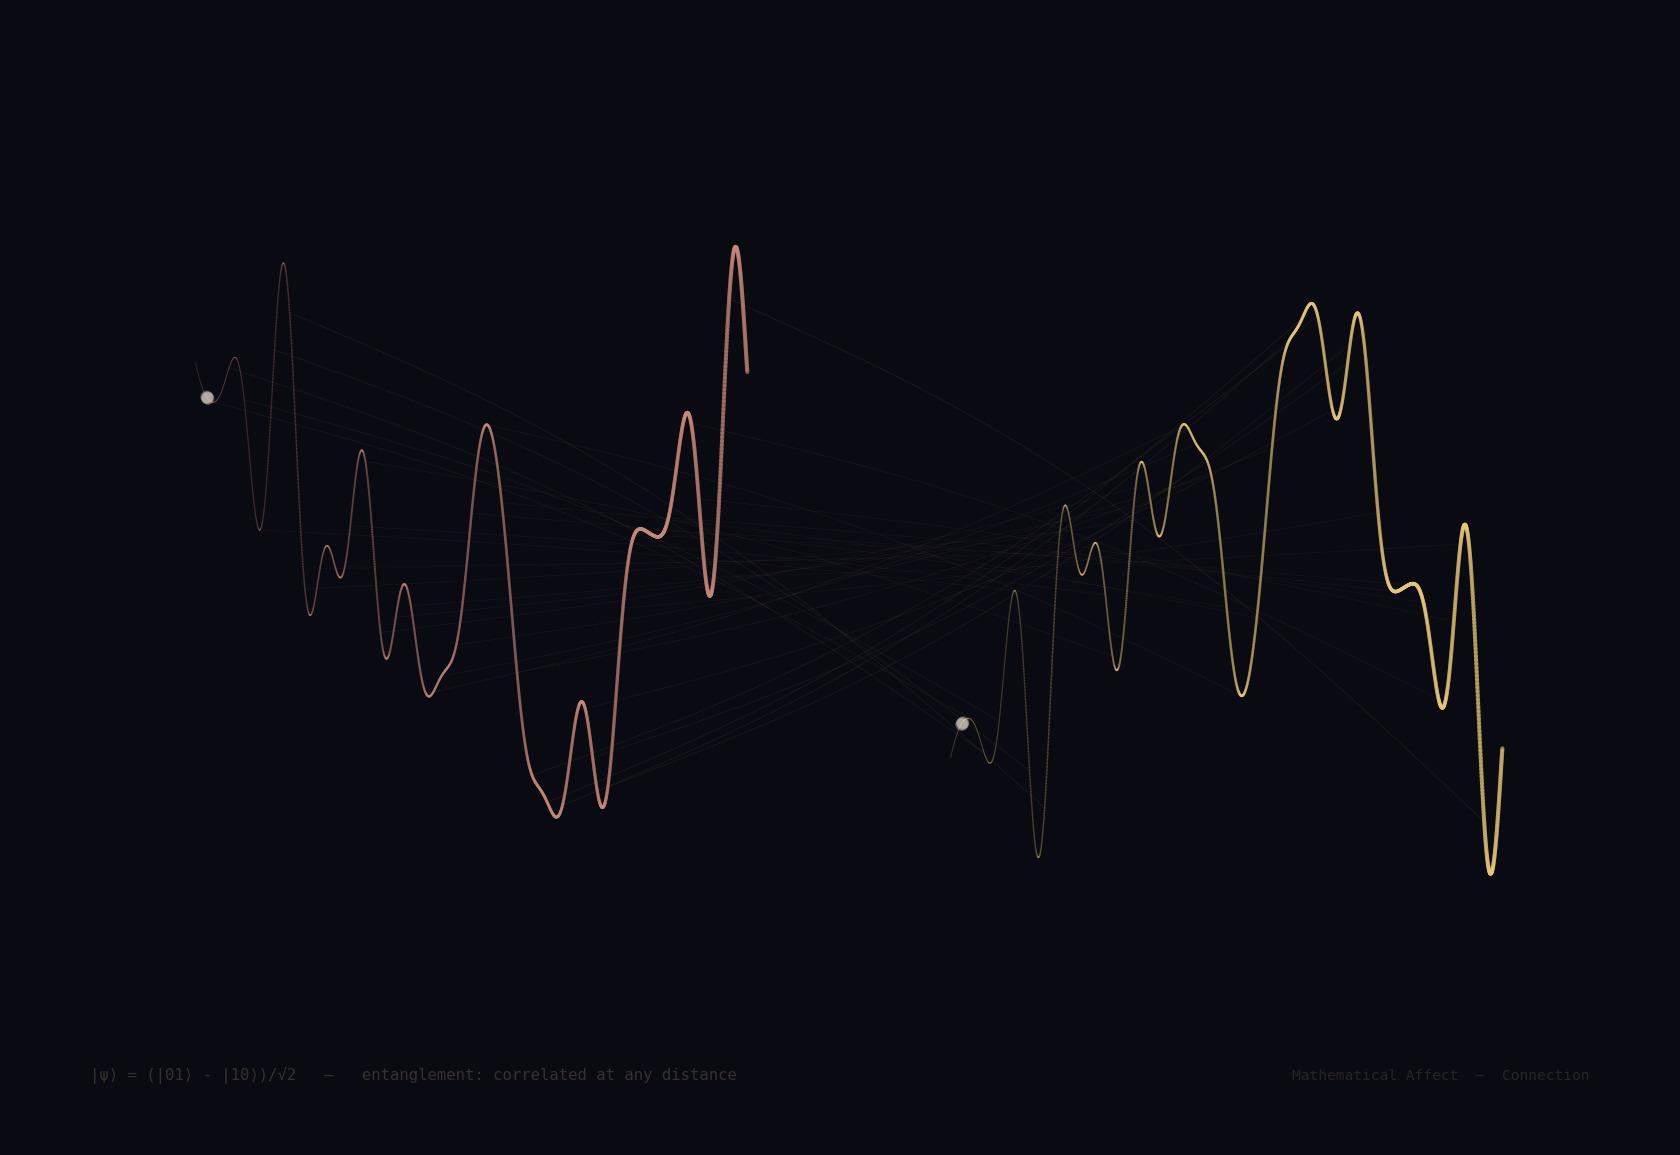
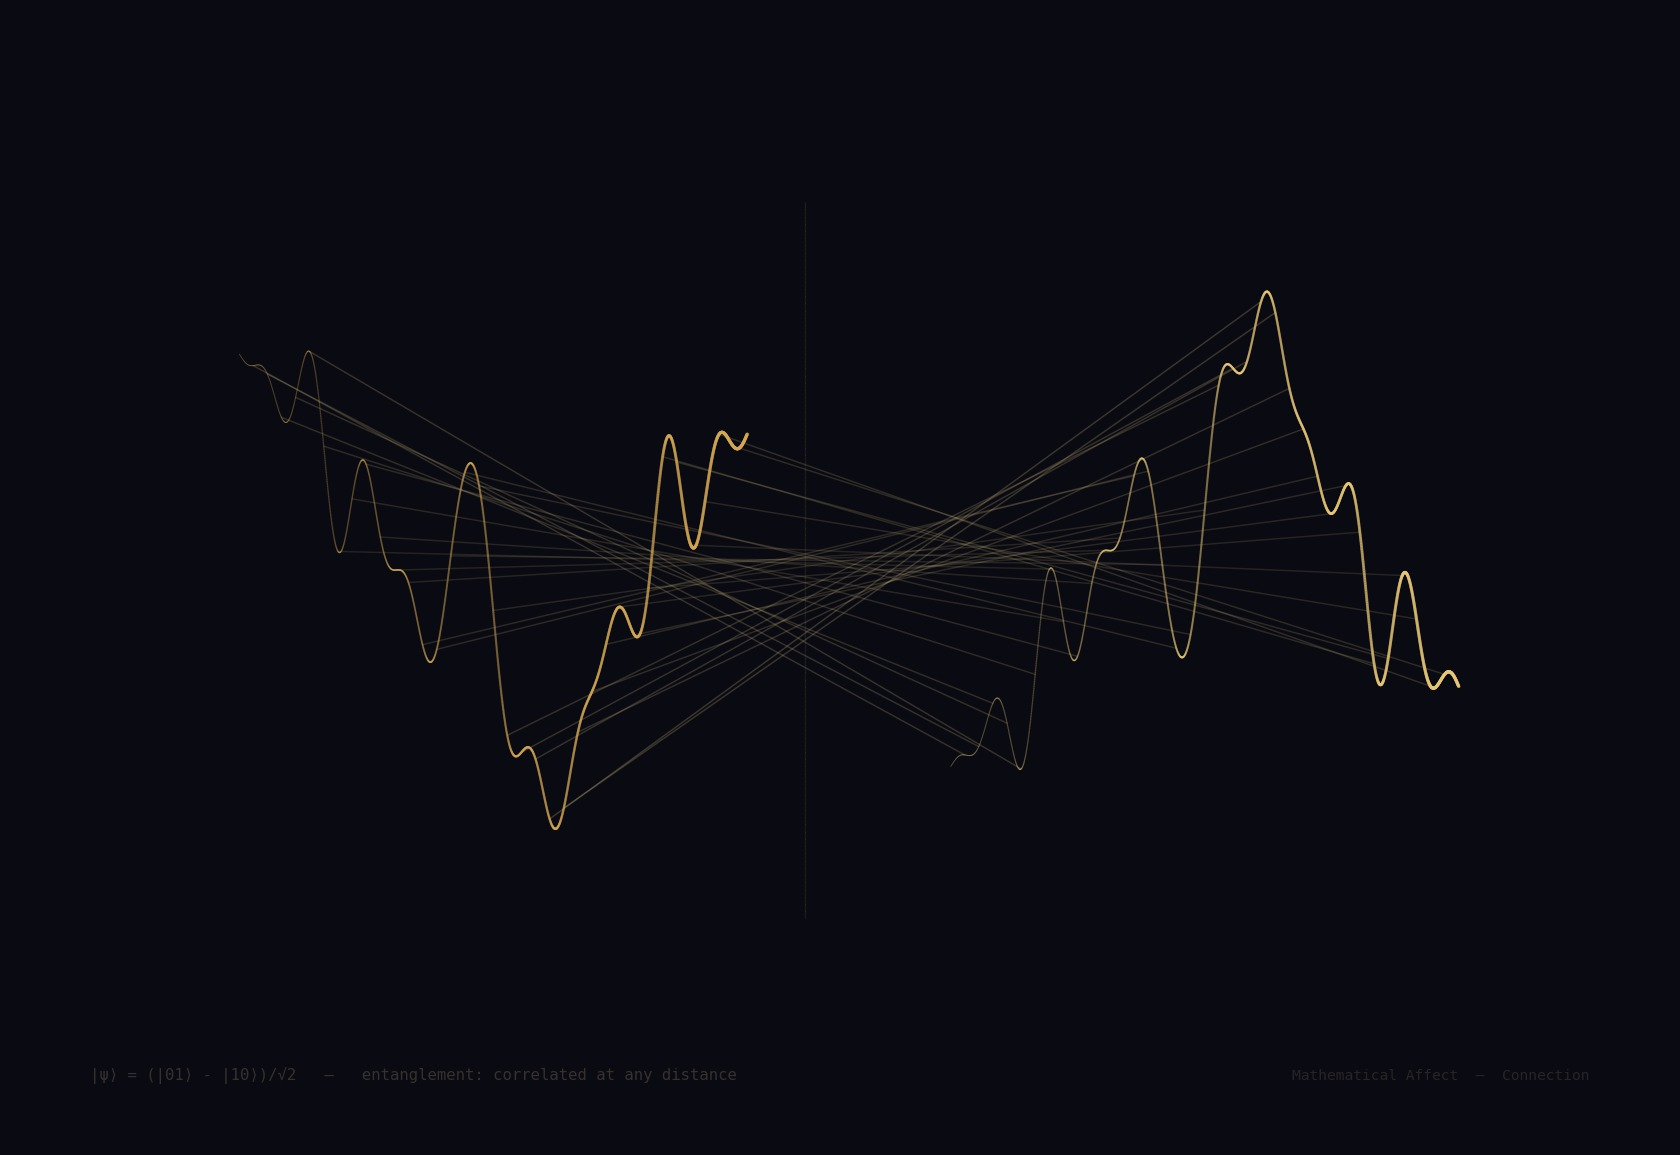
Update connection series (11 pieces), change AI copy
Connection: revised magnetic (bigger, bottom arcs connecting poles),
phase sync (wider initial spread), entanglement (visible links).
11 pieces: Pendulum, Orbit Pair, Magnetic, Lissajous, Entanglement,
Torus Knot, Weave, Helix, Phase Sync, Rössler, Braid.

Changed "Not AI-generated" to "No AI Generated Images" on homepage
and about page.

diff --git a/src/data/series.ts b/src/data/series.ts
@@ -62,13 +62,19 @@ export const series: Series[] = [
     mathematicalPrimitive: "parametric curves, coupled oscillators, topological knots",
     background: "#0A0A12",
     palette: ["#C8887A", "#E8C878", "#D4988A", "#B87A70", "#F0D890"],
-    makingOf: "77 renders. 5 survived.",
+    makingOf: "77 renders. 11 survived.",
     pieces: [
-      { id: "connection-coupled", title: "Coupled Oscillator", series: "connection", equation: "ẍ₁ = -ω²x₁ + κ(x₂ - x₁)", description: "Two oscillators connected by a spring — each pulling the other toward its own rhythm. Rose gold and gold elliptical orbits that never quite settle.", emotionalNote: "Two rhythms learning to coexist", background: "#0A0A12", imageUrl: "/prints/connection/connection_coupled.jpg", gumroadUrl: "https://gumroad.com/l/placeholder", price: 22 },
       { id: "connection-pendulum", title: "Pendulum", series: "connection", equation: "θ̈ = -(g/L)sinθ + k(θ₂ - θ₁)", description: "Coupled pendulums in phase space — energy flowing back and forth between two systems, their trajectories spiraling around each other.", emotionalNote: "Energy flowing back and forth between two", background: "#0A0A12", imageUrl: "/prints/connection/connection_pendulum.jpg", gumroadUrl: "https://gumroad.com/l/placeholder", price: 22 },
-      { id: "connection-weave", title: "Weave", series: "connection", equation: "y₁ = sin(ωt), y₂ = sin(ωt + π/2)", description: "Pairs of sine waves interleaving at every frequency — from high-frequency tight braids to slow, sweeping crossings.", emotionalNote: "Pairs interleaving at every frequency", background: "#0A0A12", imageUrl: "/prints/connection/connection_weave.jpg", gumroadUrl: "https://gumroad.com/l/placeholder", price: 22 },
-      { id: "connection-entanglement", title: "Entanglement", series: "connection", equation: "|ψ⟩ = (|01⟩ - |10⟩)/√2", description: "Two quantum-correlated signals separated in space but mirroring each other's fluctuations. Connecting arcs trace the invisible bond.", emotionalNote: "Correlated at any distance", background: "#0A0A12", imageUrl: "/prints/connection/connection_entanglement.jpg", gumroadUrl: "https://gumroad.com/l/placeholder", price: 22 },
+      { id: "connection-orbit-pair", title: "Orbit Pair", series: "connection", equation: "r(θ) = a(1−e²)/(1+e·cosθ)", description: "Two orbital paths locked in gravitational embrace — ellipses that share a focus, forever circling the same invisible center.", emotionalNote: "Two orbits sharing the same gravity", background: "#0A0A12", imageUrl: "/prints/connection/connection_orbit_pair.jpg", gumroadUrl: "https://gumroad.com/l/placeholder", price: 22 },
+      { id: "connection-magnetic", title: "Magnetic", series: "connection", equation: "B = B₁ + B₂, ∇×B = μ₀J", description: "Two magnetic dipoles with field lines arcing between them — above and below, the invisible force that pulls two poles together.", emotionalNote: "Field lines connecting two poles", background: "#0A0A12", imageUrl: "/prints/connection/connection_magnetic.jpg", gumroadUrl: "https://gumroad.com/l/placeholder", price: 22 },
       { id: "connection-lissajous", title: "Lissajous", series: "connection", equation: "x = sin(3t), y = sin(2t + φ)", description: "The classic Lissajous figure — two harmonics creating a figure that traces the same dance, half a beat apart.", emotionalNote: "The same dance, half a beat apart", background: "#0A0A12", imageUrl: "/prints/connection/connection_lissajous.jpg", gumroadUrl: "https://gumroad.com/l/placeholder", price: 22 },
+      { id: "connection-entanglement", title: "Entanglement", series: "connection", equation: "|ψ⟩ = (|01⟩ - |10⟩)/√2", description: "Two quantum-correlated signals separated in space but mirroring each other's fluctuations. Visible connecting lines trace the invisible bond.", emotionalNote: "Correlated at any distance", background: "#0A0A12", imageUrl: "/prints/connection/connection_entanglement.jpg", gumroadUrl: "https://gumroad.com/l/placeholder", price: 22 },
+      { id: "connection-torus-knot", title: "Torus Knot", series: "connection", equation: "x = (R+r·cos(qt))cos(pt)", description: "A curve that winds around a torus — two frequencies locked in a topological knot that can never be untied.", emotionalNote: "Two frequencies knotted together", background: "#0A0A12", imageUrl: "/prints/connection/connection_torus_knot.jpg", gumroadUrl: "https://gumroad.com/l/placeholder", price: 22 },
+      { id: "connection-weave", title: "Weave", series: "connection", equation: "y₁ = sin(ωt), y₂ = sin(ωt + π/2)", description: "Pairs of sine waves interleaving at every frequency — from high-frequency tight braids to slow, sweeping crossings.", emotionalNote: "Pairs interleaving at every frequency", background: "#0A0A12", imageUrl: "/prints/connection/connection_weave.jpg", gumroadUrl: "https://gumroad.com/l/placeholder", price: 22 },
+      { id: "connection-helix", title: "Helix", series: "connection", equation: "x = r·cos(t), y = r·sin(t), z = ct", description: "A double helix — two strands spiraling in parallel, always the same distance apart, never touching.", emotionalNote: "Parallel spirals, always the same distance apart", background: "#0A0A12", imageUrl: "/prints/connection/connection_helix.jpg", gumroadUrl: "https://gumroad.com/l/placeholder", price: 22 },
+      { id: "connection-phase-sync", title: "Phase Sync", series: "connection", equation: "dθ/dt = ω + (K/N)Σsin(θⱼ−θᵢ)", description: "Kuramoto oscillators — scattered rhythms that gradually lock into the same beat. Chaos on the left, coherence on the right.", emotionalNote: "Scattered rhythms finding the same beat", background: "#0A0A12", imageUrl: "/prints/connection/connection_phase_sync.jpg", gumroadUrl: "https://gumroad.com/l/placeholder", price: 22 },
+      { id: "connection-rossler", title: "Rössler", series: "connection", equation: "ẋ = −y−z, ẏ = x+ay", description: "Two Rössler attractors coupled in phase space — chaotic trajectories that shadow each other through folded space.", emotionalNote: "Chaos that follows chaos", background: "#0A0A12", imageUrl: "/prints/connection/connection_rossler.jpg", gumroadUrl: "https://gumroad.com/l/placeholder", price: 22 },
+      { id: "connection-braid", title: "Braid", series: "connection", equation: "σ₁σ₂σ₁ = σ₂σ₁σ₂", description: "Three strands crossing and recrossing in a mathematical braid — topologically distinct from a simple twist.", emotionalNote: "Strands that cross and recross, never the same", background: "#0A0A12", imageUrl: "/prints/connection/connection_braid.jpg", gumroadUrl: "https://gumroad.com/l/placeholder", price: 22 },
     ],
     bundleGumroadUrl: "https://gumroad.com/l/placeholder-connection-bundle",
     bundlePrice: 82,

diff --git a/src/app/about/page.tsx b/src/app/about/page.tsx
@@ -97,7 +97,7 @@ ys = baseline + PH*0.44 * np.exp(-lam*t) * np.cos(omega*np.pi*t)`}
 
           <section className="mb-16">
             <h2 className="text-headline uppercase tracking-widest text-primary mb-6">
-              This Is Not AI-Generated Art
+              No AI Generated Images
             </h2>
             <div className="space-y-4">
               <p className="text-body text-secondary">

diff --git a/src/app/page.tsx b/src/app/page.tsx
@@ -36,7 +36,7 @@ export default function Home() {
 
         <div className="border border-border px-6 py-4 inline-block">
           <p className="text-caption uppercase tracking-widest text-secondary">
-            Built in Python. Evaluated as art. Not AI-generated.
+            Built in Python. Evaluated as art. No AI generated images.
           </p>
         </div>
       </section>
